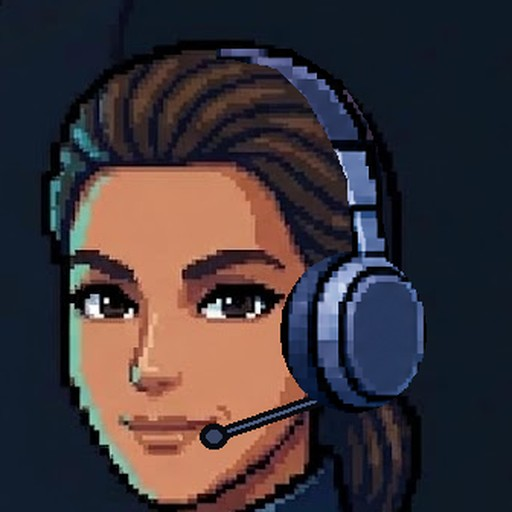
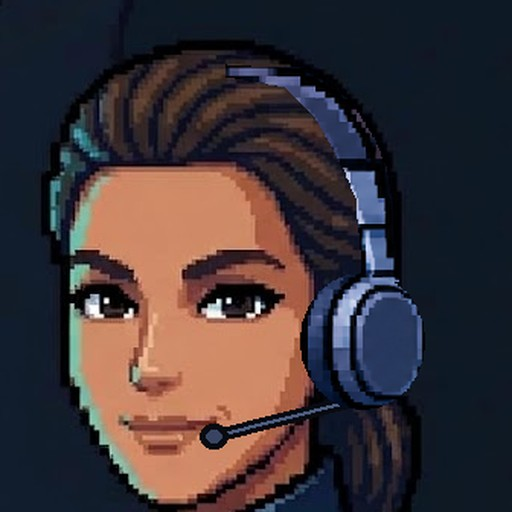
Nicole's headset: smaller cup, clear of her eye; the band keeps its reach
Claude-Session: https://claude.ai/code/session_01QsU1qWh9Lm4CoQ2smq7FHb

Changed region(s): [[0.4062, 0.0938, 0.8438, 0.875], [0.7812, 0.7188, 0.8125, 0.7812]]

diff --git a/tools/nicole_headset.py b/tools/nicole_headset.py
@@ -14,23 +14,28 @@ alex = Image.open(os.path.join(SRC, 'sensors_scene.png')).convert('RGBA')
 CUP = (463, 360, 62, 68)   # centre x, y, radius x, y (outline included)
 BAND = [(347, 115), (409, 118), (452, 145), (474, 180), (484, 205), (487, 230), (488, 265), (494, 300),
         (463, 300), (461, 265), (458, 230), (450, 210), (440, 190), (423, 160), (398, 135), (362, 128), (347, 126)]
-mask = Image.new('L', alex.size, 0); md = ImageDraw.Draw(mask)
-cx, cy, rx, ry = CUP; md.ellipse([cx - rx, cy - ry, cx + rx, cy + ry], fill=255); md.polygon(BAND, fill=255)
-box = (340, 108, 530, 432)
-piece = alex.crop(box); piece.putalpha(mask.crop(box))
+def cut(shape):
+    m = Image.new('L', alex.size, 0); dd = ImageDraw.Draw(m); shape(dd); pc = alex.copy(); pc.putalpha(m); return pc.crop(m.getbbox())
+cx, cy, rx, ry = CUP
+cup = cut(lambda dd: dd.ellipse([cx - rx, cy - ry, cx + rx, cy + ry], fill=255)); cup_box = (cx - rx, cy - ry)
+band = cut(lambda dd: dd.polygon(BAND, fill=255)); band_box = (min(x for x, _ in BAND), min(y for _, y in BAND))
 
-# 2. onto Nicole: scaled to her head (Alex's head is about 300 px across, hers about 232), the cup centre on her ear
-K = 0.77
+# 2. onto Nicole. The band keeps her head's scale (KB) so it reaches over her hair; the cup is a little smaller (KC) so it clears her eye (owner).
+KB, KC = 0.77, 0.66
 scene = Image.open(os.path.join(SRC, 'communications_scene_v1.jpg')).convert('RGBA')
-small = piece.resize((round(piece.width * K), round(piece.height * K)), Image.NEAREST)
-ear = (410, 270)   # her near ear in the dialogue picture (1024 x 765)
-off = (round(ear[0] - (cx - box[0]) * K), round(ear[1] - (cy - box[1]) * K))
+ear = (416, 276)   # where the cup's centre goes: her near ear in the dialogue picture (1024 x 765)
+cup_s = cup.resize((round(cup.width * KC), round(cup.height * KC)), Image.NEAREST)
+cup_off = (round(ear[0] - (cx - cup_box[0]) * KC), round(ear[1] - (cy - cup_box[1]) * KC))
+joint = (476, 300)   # in Alex's picture: where the band's slider meets the top of the cup
+joint_n = (round(ear[0] + (joint[0] - cx) * KC), round(ear[1] + (joint[1] - cy) * KC))
+band_s = band.resize((round(band.width * KB), round(band.height * KB)), Image.NEAREST)
+band_off = (round(joint_n[0] - (joint[0] - band_box[0]) * KB), round(joint_n[1] - (joint[1] - band_box[1]) * KB))
 # the mic boom first (under the cup), in Alex's headset colours, from the bottom of the cup to her mouth
 d = ImageDraw.Draw(scene)
 p0, p1 = (ear[0] - 12, ear[1] + 40), (318, 338)
 d.line([p0, p1], fill=(8, 11, 17, 255), width=9); d.line([p0, p1], fill=(76, 92, 128, 255), width=3)
 d.ellipse([p1[0] - 9, p1[1] - 8, p1[0] + 9, p1[1] + 8], fill=(8, 11, 17, 255)); d.ellipse([p1[0] - 5, p1[1] - 4, p1[0] + 5, p1[1] + 4], fill=(56, 68, 98, 255))
-scene.alpha_composite(small, off)
+scene.alpha_composite(band_s, band_off); scene.alpha_composite(cup_s, cup_off)
 out = scene.convert('RGB'); out.save(os.path.join(OUT, 'communications_scene_original.jpg'), quality=92)
 snap(out.resize((320, 240), Image.LANCZOS)).save(os.path.join(OUT, 'communications_scene.png'))
 
